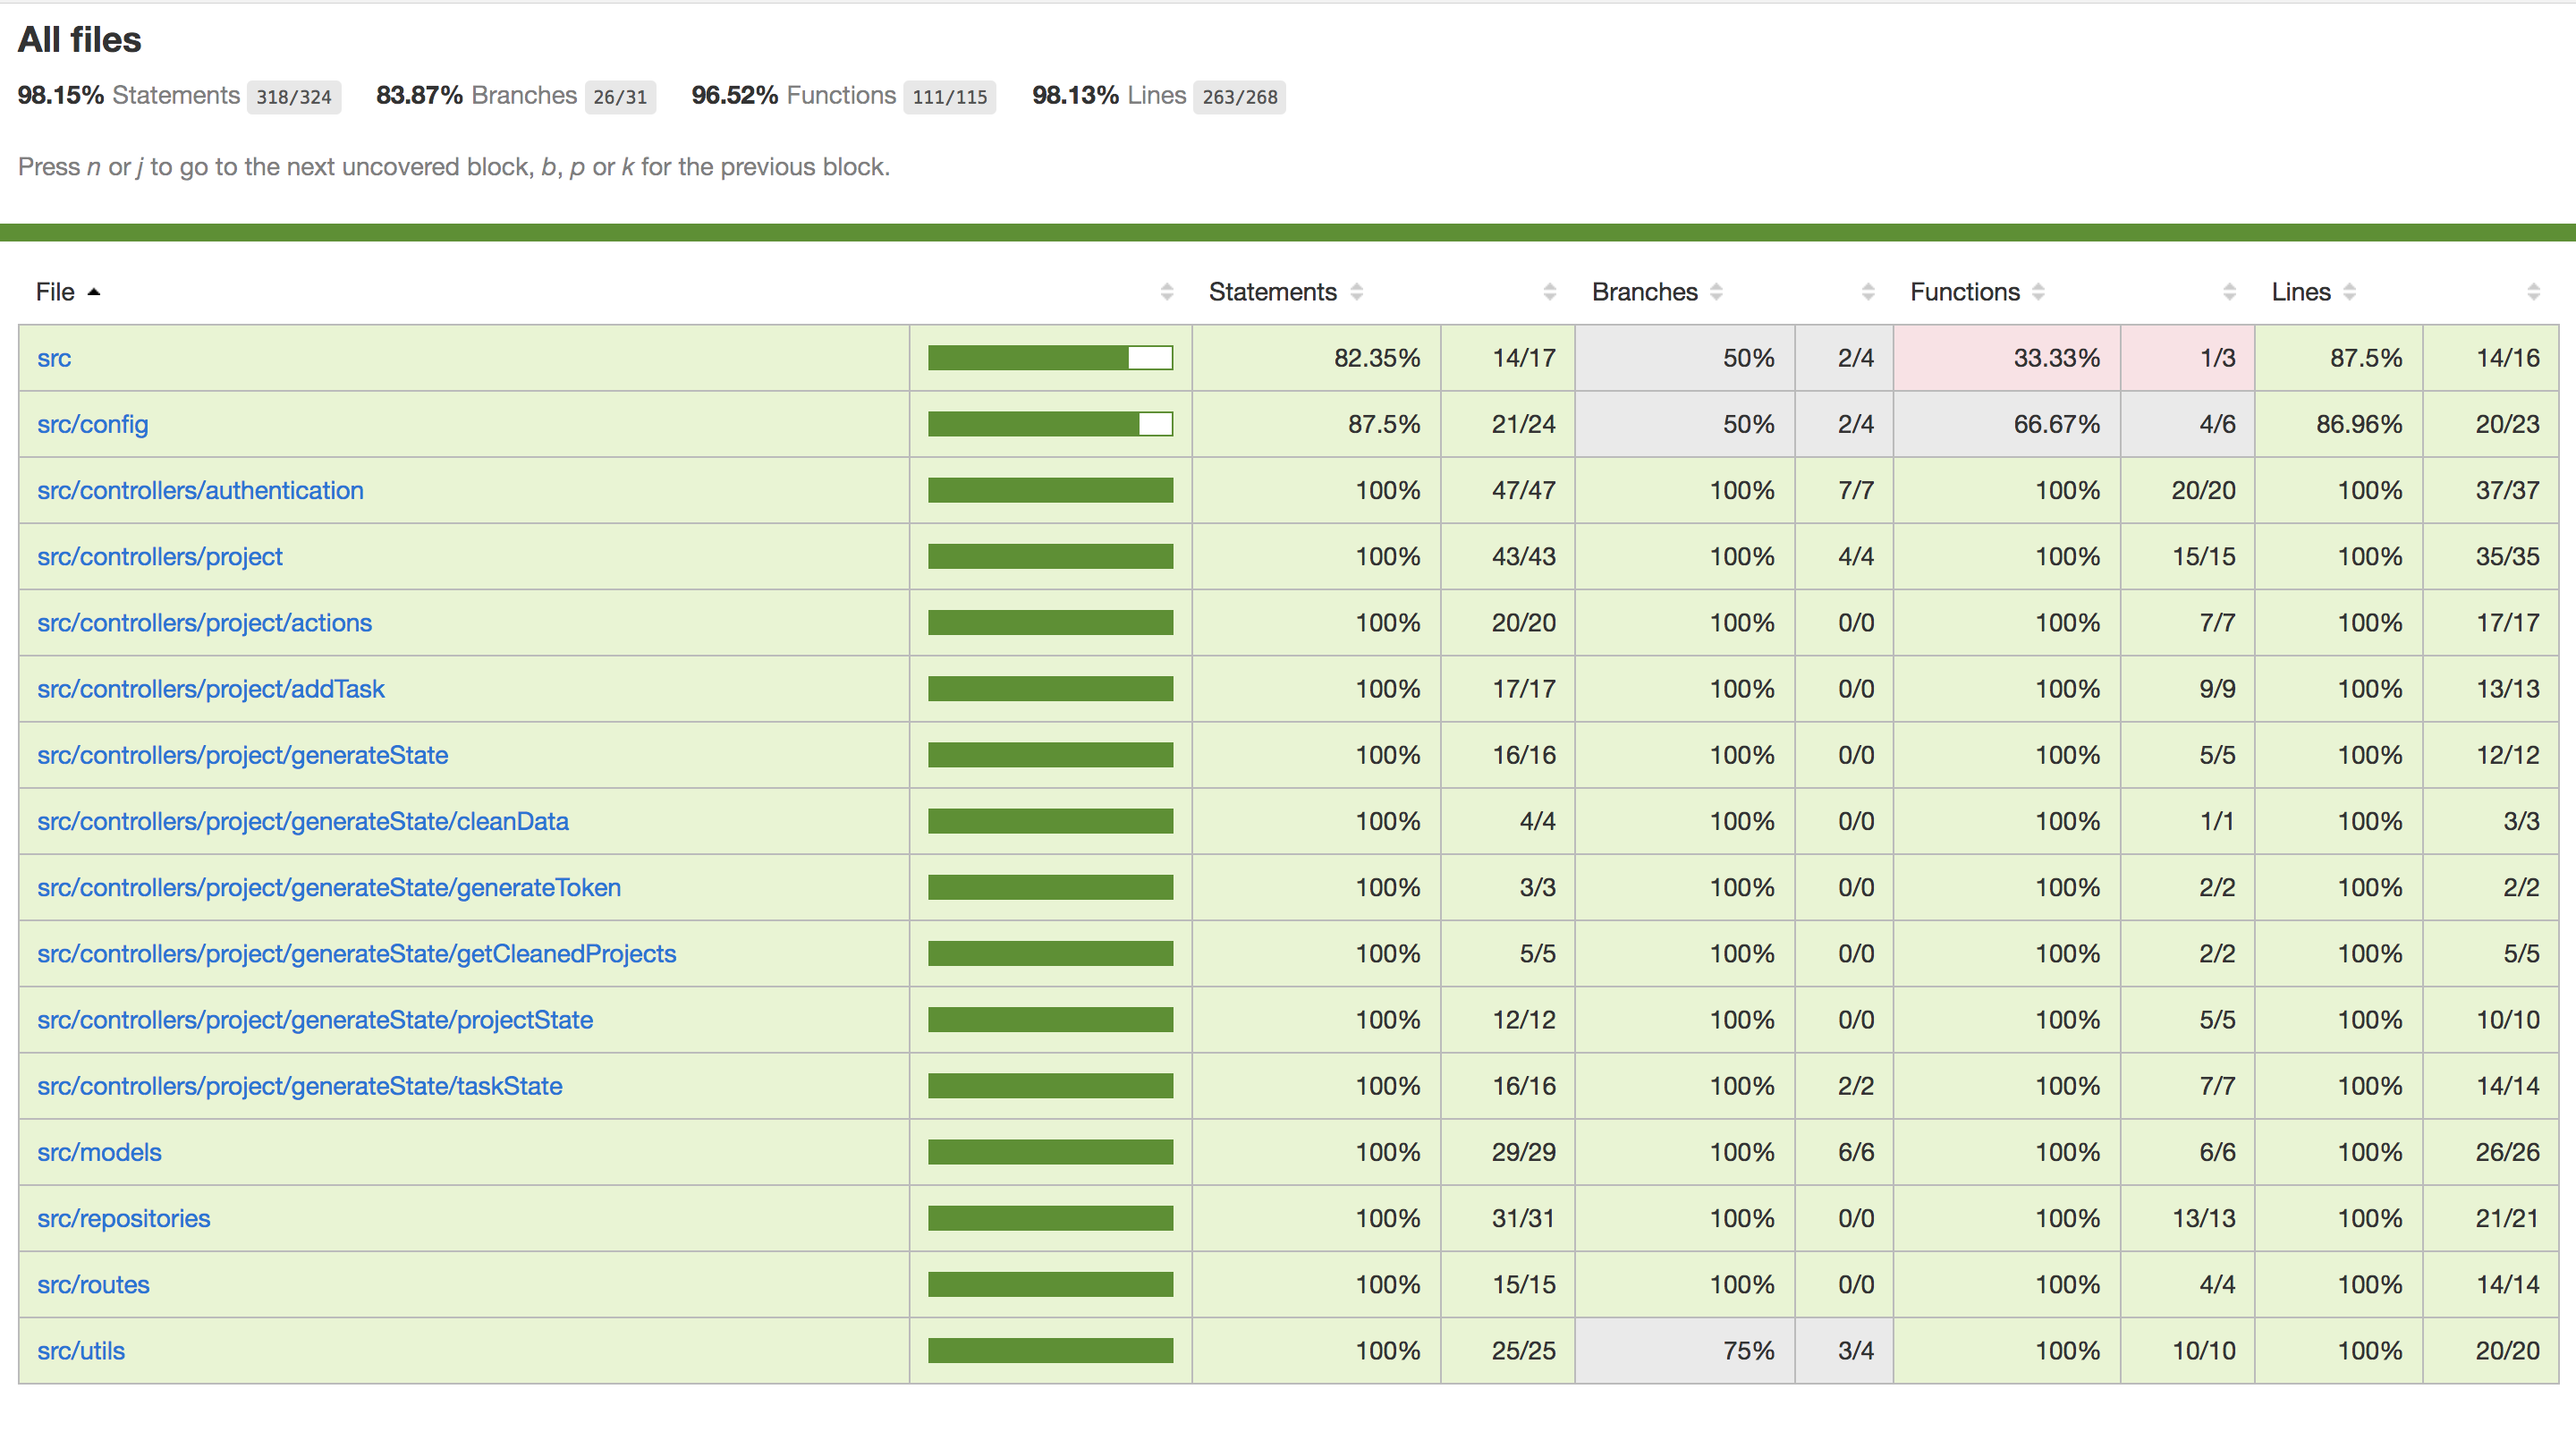
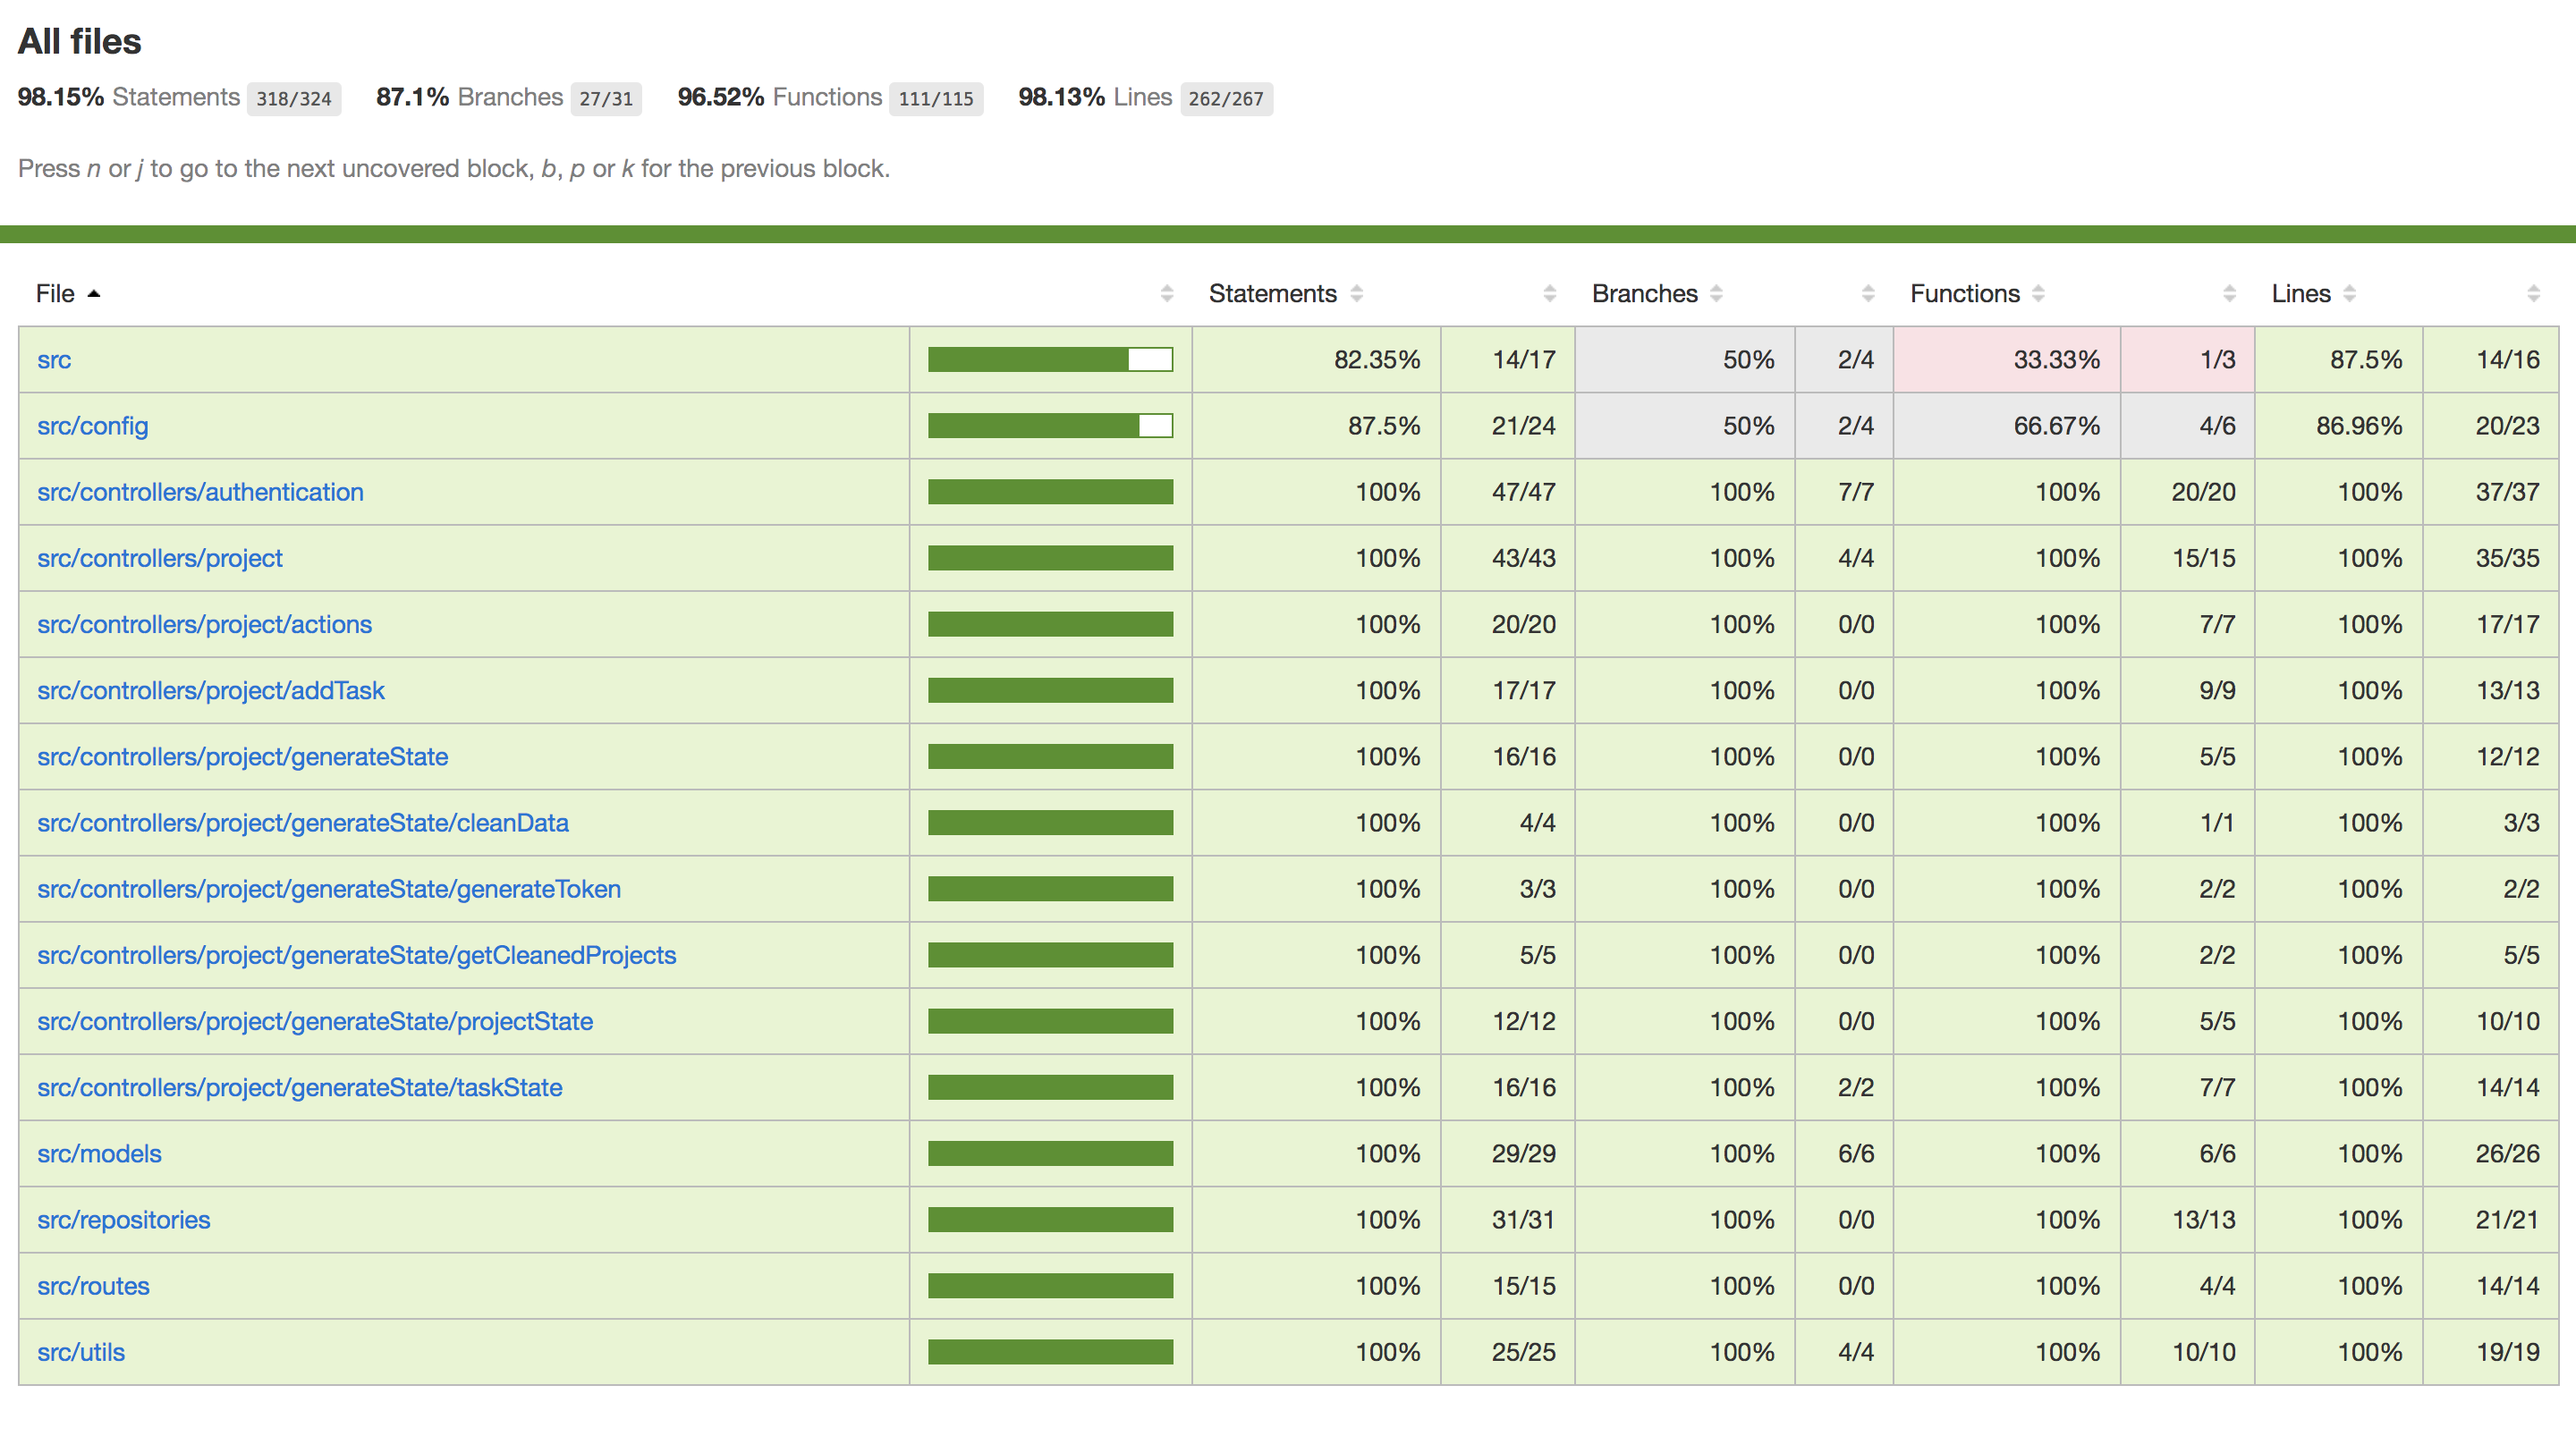
Removed unused code

diff --git a/backend/src/utils/controllerHelpers.js b/backend/src/utils/controllerHelpers.js
@@ -9,9 +9,7 @@ const ifElse = require('ramda').ifElse
 
 // findErrorMessages :: Predicate f -> ValidationError -> [String]
 const findErrorMessages = curry((pred, error) =>
-  Object.entries(error.errors).map(
-    pair => (pred(pair[0]) ? pair[1].message : 'No error.')
-  )
+  Object.entries(error.errors).map(pair => pred(pair[0]) && pair[1].message)
 )
 
 // getErrorMessages :: (a -> Bool) -> Error -> [String]
